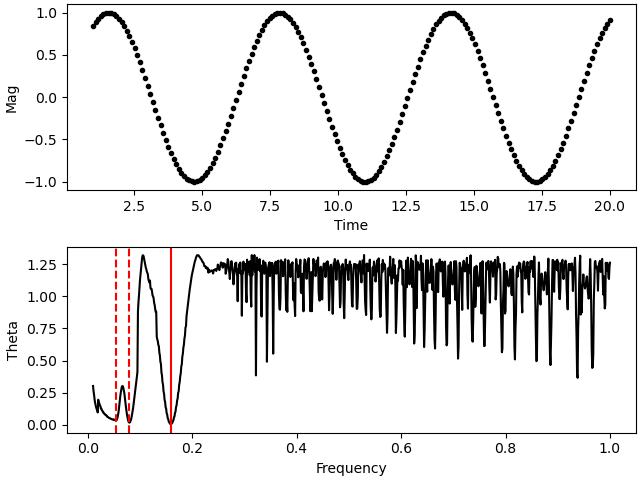
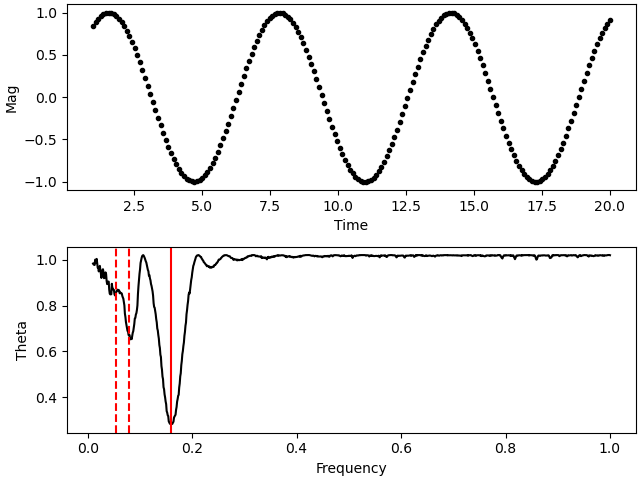
Add a new arguemnt: nbin

diff --git a/PyPDM.c b/PyPDM.c
@@ -109,14 +109,14 @@ static long dummy;           /*  for ran1  */
 
 /*--------------------------- prototypes ------------------------------------*/
 
-int pdm2( int ne, double datx[], double daty[], double sig[], double f_min, double f_max, double delf);
+int pdm2( int ne, double datx[], double daty[], double sig[], double f_min, double f_max, double delf, int nbins);
 int p_sort( int n, double dat1[], double dat2[], double dat3[], int sgn );
 int i_sort( int n, int dat1[], double dat2[], int sgn );
 double inc_beta( double a, double b, double x );
 double rnd( void );
 double ran1(long *idum);
 
-static int binner( double datx[], double daty[], double sig[], double f, int bin10, int first, int last );
+static int binner( double datx[], double daty[], double sig[], double f, int bin10, int first, int last, int nbins);
 static double dophase( double tt, double t0, double tn, double f );
 static int segset( int ne, double datx[], double daty[], double segdev );
 static double sqrc( double x );
@@ -185,7 +185,7 @@ double* f_array;
 double* theta_array;
 
 /*---number of bins---*/
-int nbins; // use this number as the number of bins, it should be lower than the MAXBINS
+// int nbins=100; // use this number as the number of bins, it should be lower than the MAXBINS
 
 int main(){
     // double x[350], y[350], s[350];
@@ -198,7 +198,7 @@ int main(){
         sigs[i] = 0.0;
     }
 
-    pdm2(350, times, mags, sigs, 0.01, 1, 0.001);
+    pdm2(350, times, mags, sigs, 0.01, 1, 0.001, 100);
     printf("nf is %d", nf);
     for(i=0; i<nf; ++i){
         printf(" f: %f, theta: %f", f_array[i], theta_array[i]);
@@ -209,7 +209,7 @@ int main(){
     return 0;
 }
 
-int pdm2(int ne, double datx[], double daty[], double sig[], double f_min, double f_max, double delf){
+int pdm2(int ne, double datx[], double daty[], double sig[], double f_min, double f_max, double delf, int nbins){
     int i, j, k, kk, bins, sub1_index, big_seg, big_pts, bin10, pts, ntot, pdv;
     // int line_points;
     int icurr, nb;
@@ -521,7 +521,7 @@ int pdm2(int ne, double datx[], double daty[], double sig[], double f_min, doubl
         icurr = 0;
         for( f = f_min, k = 0; f <= f_max + delf; f += delf ) {
             icurr++;
-            if( pdm_verbose )  printf( "===scan %d / %d frequency points===\r", icurr, nf );
+            // if( pdm_verbose )  printf( "===scan %d / %d frequency points===\r", icurr, nf );
             if( k ) {
                 th2 = th1;
                 th1 = theta;
@@ -534,9 +534,9 @@ int pdm2(int ne, double datx[], double daty[], double sig[], double f_min, doubl
                 
                 /* fprintf( fo, "\nSEG %d   bin10 = %d\n", i, bin10 ); */
                 
-                binner( datx, daty, sig, f, bin10, seg_beg_i[i], seg_end_i[i] );
+                binner( datx, daty, sig, f, bin10, seg_beg_i[i], seg_end_i[i], nbins);
                 
-                for( j = 0; j <= 99; j++ ) {
+                for( j = 0; j <= nbins; j++ ) {
                     if( nbin[j] > 1 ) {        /*  bin statistics  */
                         bins++;
                         ndof += nbin[j]-1;
@@ -634,20 +634,20 @@ int pdm2(int ne, double datx[], double daty[], double sig[], double f_min, doubl
         
         // fprintf( fp2, "#Resid X\n" );
         
-        binner( datx, daty, sig, fthmin[1], bin10, seg_beg_i[big_seg], seg_end_i[big_seg] );
+        binner( datx, daty, sig, fthmin[1], bin10, seg_beg_i[big_seg], seg_end_i[big_seg], nbins);
         
         if( do_spline_fit && thmin[1] < theta_crit ) {
             /*  apply curvature corrections  - use for final mean curve only  */
             /*  will show on mean curve plot and improve residuals            */
             /*    equivalent to a converged Stobie iteration                  */
-            for( j = 0; j <= 100; j++ ) {
+            for( j = 0; j <= nbins; j++ ) {
                 bin_mean0[j] = bin_mean[j];
             }
-            for( j = 1; j <= 99; j++ ) {
+            for( j = 1; j <= nbins-1; j++ ) {
                 bin_mean[j] = (3.*bin_mean0[j] - 0.5*(bin_mean[j-1] + bin_mean[j+1])) / 2.;
             }
-            bin_mean[0] = (3.*bin_mean0[0] - 0.5*(bin_mean[99] + bin_mean[1])) / 2.;
-            bin_mean[100] = bin_mean[0];
+            bin_mean[0] = (3.*bin_mean0[0] - 0.5*(bin_mean[nbins-1] + bin_mean[1])) / 2.;
+            bin_mean[nbins] = bin_mean[0];
         }       
         /*------------- write data versus phase and residuals ------------------------*/
         /*  do for largest segment only to get meaningful data    */
@@ -687,9 +687,9 @@ int pdm2(int ne, double datx[], double daty[], double sig[], double f_min, doubl
         ymean_mean /= nplot;
         
         // fclose( fp );
-        if( pdm_verbose )  printf( "Phased data and mean curve written to pdmcurve.dat\n" );
+        // if( pdm_verbose )  printf( "Phased data and mean curve written to pdmcurve.dat\n" );
         // fclose( fp2 );
-        if( pdm_verbose )  printf( "Residuals written to residuals.dat\n" );
+        // if( pdm_verbose )  printf( "Residuals written to residuals.dat\n" );
         
         /*  distribution plot  */
         // if( do_dist ) {
@@ -842,7 +842,7 @@ double bspl3( double z )
 
 /*------- compute bin sums and numbers ----------------------------------------------*/
 
-int binner( double datx[], double daty[], double sig[], double f, int bin10, int first, int last )
+int binner( double datx[], double daty[], double sig[], double f, int bin10, int first, int last, int nbins)
 {
     double phase, t0, tn, sybin[MAXBINS+1], sumy2_dev[MAXBINS+1], ymean=0.; 
     double tmp, theta0, dev, dev0, bm1, bm2;
@@ -870,14 +870,33 @@ int binner( double datx[], double daty[], double sig[], double f, int bin10, int
         /*  (100,1) bins  */
         /* bins are 0->99, center of b0 at 0  */
         if( bin10 ) {
-            bin1 = (int)(100.*phase+0.5) % 100;
+            bin1 = (int)(nbins*phase+0.5) % nbins;
             nbin[bin1] += 1;
             sybin[bin1] += y(j);
         }
         /*  (50,2) bins)  */
         else {
-            bin1 = 2 * ((int)(50.*phase) % 50) + 1;   /*  odd bins  */
-            bin2 = 2 * ((int)(50.*phase+0.5) % 50);   /*  even bins  */
+            // bin1 = 2 * ((int)(50.*phase) % 50) + 1;   /*  odd bins  */
+            // bin2 = 2 * ((int)(50.*phase+0.5) % 50);   /*  even bins  */
+            // bin1 = ceil(phase/(1./nbins)) - 1;
+            // if (bin1&1) {
+            //     bin2 = bin1 + 1;
+            //     if(bin2==nbins) bin2=0;
+            // }
+            // else {
+            //     bin2 = bin1;
+            //     bin1--;
+            //     if(bin1==-1) bin1=1;
+            // }
+            if (nbins&1){
+                bin1 = 2 * ((int)(((nbins-1) / 2)*phase) % ((nbins-1) / 2)) + 1;
+                bin2 = 2 * ((int)(((nbins-1) / 2)*phase+0.5) % ((nbins-1) / 2));
+                if (bin1==nbins-2) bin2 = nbins - 1;
+            }
+            else{
+                bin1 = 2 * ((int)((nbins / 2)*phase) % (nbins / 2)) + 1;
+                bin2 = 2 * ((int)((nbins / 2)*phase+0.5) % (nbins / 2));
+            }
             nbin[bin1] += 1;
             sybin[bin1] += y(j);
             nbin[bin2] += 1;
@@ -886,14 +905,14 @@ int binner( double datx[], double daty[], double sig[], double f, int bin10, int
     }
     
     /*  compute bin means - bin 0 has at least 1 point  */
-    for( j = 0; j <= 99; j++ ) {
+    for( j = 0; j <= nbins; j++ ) {
         if( nbin[j] )  bin_mean[j] = sybin[j] / nbin[j];
     }
-    bin_mean[100] = bin_mean[0];
+    bin_mean[nbins] = bin_mean[0];
     /*  fix empty bins  */
-    for( j = 1; j <= 99; j++ ) {
+    for( j = 1; j <= nbins; j++ ) {
         if( !nbin[j] ) {
-            for( i = j+1; i <= 100; i++ ) {
+            for( i = j+1; i <= nbins; i++ ) {
                 if( nbin[i] ) {
                     bm1 = bin_mean[j-1];
                     bm2 = bin_mean[i];
@@ -926,7 +945,8 @@ int binner( double datx[], double daty[], double sig[], double f, int bin10, int
         else            tmp = 0.;
         /*  (100,1) bins  */
         if( bin10 ) {
-            bin1 = (int)(100.*phase+0.5) % 100;
+            bin1 = (int)(nbins*phase+0.5) % nbins;
+            // bin1 = (int)(100.*phase+0.5) % 100;
             if( !do_curve )  ymean = bin_mean[bin1];
             dev0 = fabs(y(j) - ymean);
             /*  note sigma correction here  */
@@ -935,9 +955,17 @@ int binner( double datx[], double daty[], double sig[], double f, int bin10, int
         }
         /*  (50,2) bins)  */
         else {
-            bin1 = 2 * ((int)(50.*phase) % 50) + 1;   /*  odd bins  */
-            bin2 = 2 * ((int)(50.*phase+0.5) % 50);   /*  even bins  */
-            
+            // bin1 = 2 * ((int)(50.*phase) % 50) + 1;   /*  odd bins  */
+            // bin2 = 2 * ((int)(50.*phase+0.5) % 50);   /*  even bins  */
+            if (nbins&1){
+                bin1 = 2 * ((int)(((nbins-1) / 2)*phase) % ((nbins-1) / 2)) + 1;
+                bin2 = 2 * ((int)(((nbins-1) / 2)*phase+0.5) % ((nbins-1) / 2));
+                if (bin1==nbins-2) bin2 = nbins - 1;
+            }
+            else{
+                bin1 = 2 * ((int)((nbins / 2)*phase) % (nbins / 2)) + 1;
+                bin2 = 2 * ((int)((nbins / 2)*phase+0.5) % (nbins / 2));
+            }
             if( !do_curve )  ymean = bin_mean[bin2];
             dev0 = fabs(y(j) - ymean);
             /*  note sigma correction here  */
@@ -956,7 +984,7 @@ int binner( double datx[], double daty[], double sig[], double f, int bin10, int
         //printf( "BIN1:  dev0=%g, dev=%g sig=%g\n", dev0, dev, sig[j] );
     }
     
-    for( j = 0; j <= 99; j++ ) {
+    for( j = 0; j <= nbins-1; j++ ) {
         if( nbin[j] > 1 )  bin_var[j] = sumy2_dev[j] / (nbin[j] - 1);
         else               bin_var[j] = 0.;
     }

diff --git a/Py-PDM-example.py b/Py-PDM-example.py
@@ -7,7 +7,7 @@ t = np.linspace(1, 20, 200)
 y = np.sin(t)
 s = np.zeros(t.size)
 
-freq, theta = pypdm.pdm(t, y, s, 0.01, 1, 0.001)
+freq, theta = pypdm.pdm(t, y, s, 0.01, 1, 0.001, 10)
 
 fig, (ax1, ax2) = plt.subplots(2, 1, constrained_layout=True)
 
@@ -21,5 +21,5 @@ for i in range(2,4):
     ax2.axvline(1/2/i/np.pi, color='red', ls='--')
 ax2.set_xlabel('Frequency')
 ax2.set_ylabel('Theta')
-# plt.show()
+plt.show()
 # plt.savefig('Py-PDM-example.png')
